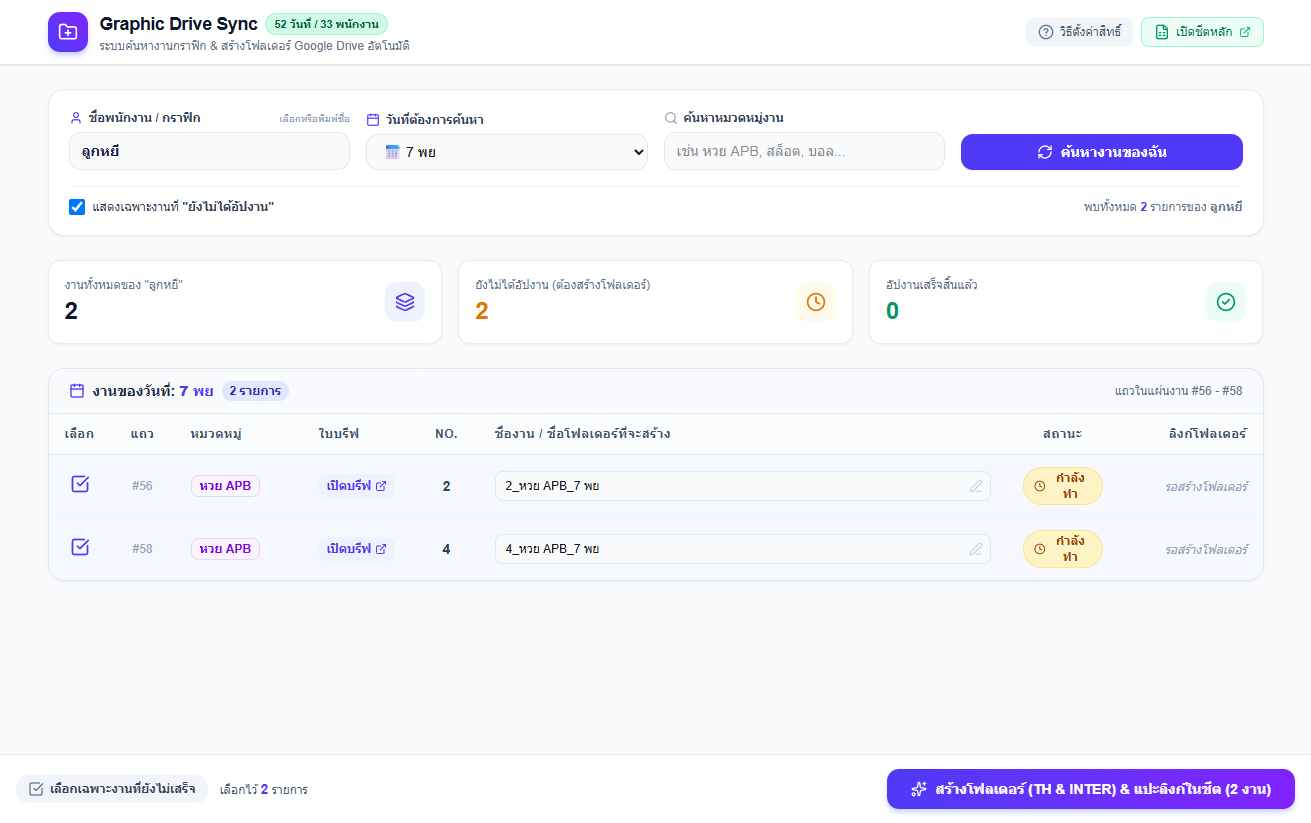
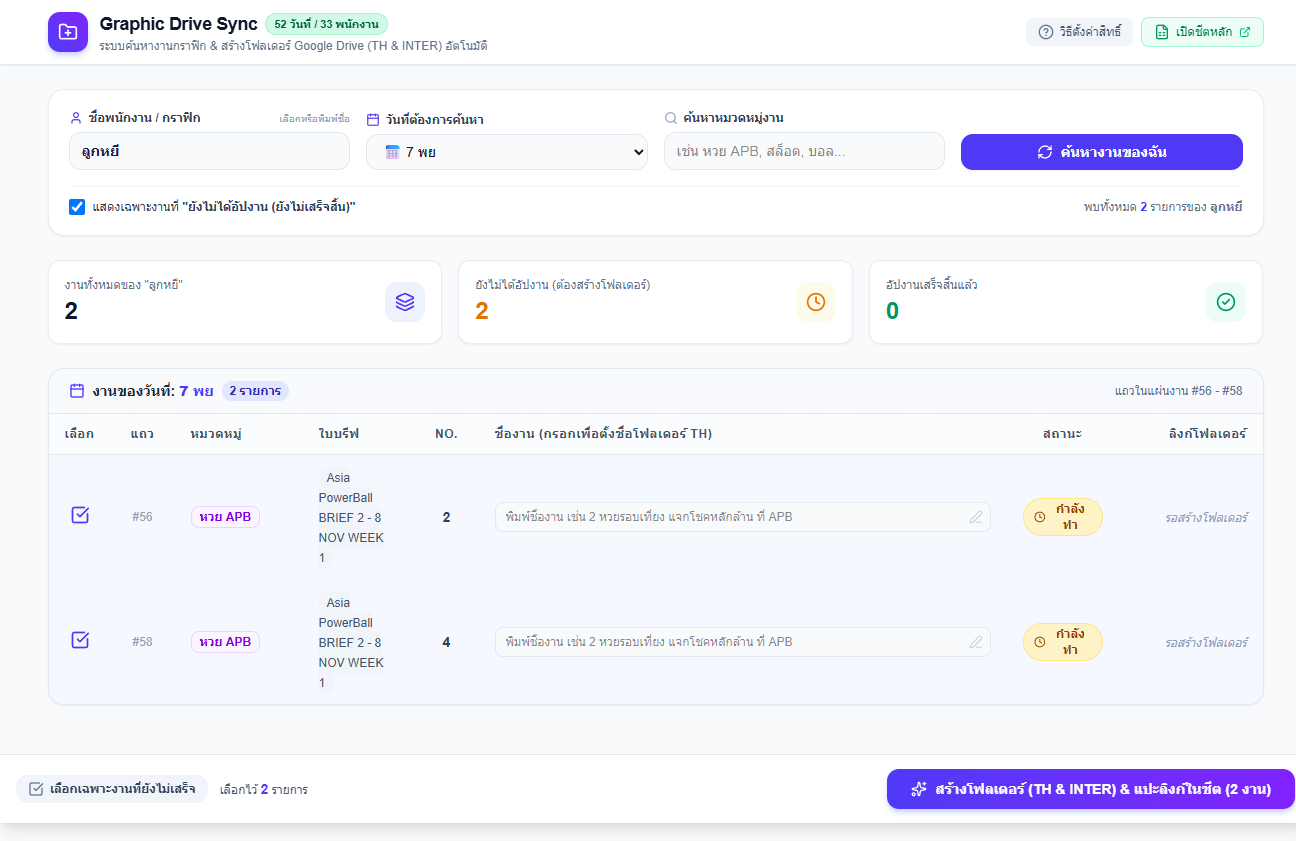
feat: complete exact folder naming for TH/INTER, empty input for new tasks, dual drive links with copy button

diff --git a/src/app/page.tsx b/src/app/page.tsx
@@ -21,6 +21,8 @@ import {
   User,
   FolderSymlink,
   Edit3,
+  Globe,
+  Copy,
 } from "lucide-react";
 
 interface Task {
@@ -77,6 +79,7 @@ export default function HomePage() {
   const [errorMessage, setErrorMessage] = useState<string | null>(null);
   const [searchTerm, setSearchTerm] = useState<string>("");
   const [showGuide, setShowGuide] = useState<boolean>(false);
+  const [copiedLink, setCopiedLink] = useState<string | null>(null);
   const [syncResult, setSyncResult] = useState<{
     success: boolean;
     message: string;
@@ -92,6 +95,12 @@ export default function HomePage() {
 
   const abortControllerRef = useRef<AbortController | null>(null);
   const getTaskKey = (sheet: string, row: number) => `${sheet}_${row}`;
+
+  const copyToClipboard = (url: string, label: string) => {
+    navigator.clipboard.writeText(url);
+    setCopiedLink(label);
+    setTimeout(() => setCopiedLink(null), 2000);
+  };
 
   // โหลดรายชื่อพนักงานและแท็บวันที่ทั้งหมด
   const loadMetadata = async () => {
@@ -113,7 +122,6 @@ export default function HomePage() {
 
   // โหลดรายการงานตามชื่อพนักงาน
   const fetchTasks = async (targetAssignee = assignee, targetSheet = sheetName, isPending = pendingOnly) => {
-    // ยกเลิก Request ก่อนหน้าที่ยังค้างอยู่
     if (abortControllerRef.current) {
       abortControllerRef.current.abort();
     }
@@ -127,7 +135,7 @@ export default function HomePage() {
     const timeoutId = setTimeout(() => {
       controller.abort();
       setIsLoading(false);
-      setErrorMessage("การเชื่อมต่อหมดเวลา กรุณาลองกด 'ค้นหางานของฉัน' อีกครั้ง");
+      setErrorMessage("การเชื่อมต่อใช้เวลานาน กรุณากด 'ค้นหางานของฉัน' อีกครั้ง");
     }, 60000);
 
     try {
@@ -141,7 +149,6 @@ export default function HomePage() {
 
       const data = await res.json();
       if (data.success) {
-        // กรองเฉพาะงานที่มีชื่อ assignee ตรงกันจริงๆ
         const searchLower = (targetAssignee || "").toLowerCase().trim();
         const rawTasks: Task[] = data.tasks || [];
         const loadedTasks = searchLower && searchLower !== "all"
@@ -150,11 +157,14 @@ export default function HomePage() {
 
         setTasks(loadedTasks);
 
+        // จัดการชื่องาน: ถ้าในชีตยังว่างอยู่ ให้เว้นว่างไว้ให้ผู้ใช้พิมพ์เอง
         const nameMap: Record<string, string> = {};
         const pendingKeys: string[] = [];
         loadedTasks.forEach((t) => {
           const key = getTaskKey(t.sheetName, t.row);
-          nameMap[key] = t.taskName;
+          // ถ้าชื่องานเป็นชื่อที่ระบบตั้งอัตโนมัติ ให้เคลียร์เป็นค่าว่าง เพื่อให้ผู้ใช้พิมพ์เอง
+          const isAutoPattern = t.taskName.endsWith(`_${t.sheetName}`) || !t.uploadUrl;
+          nameMap[key] = isAutoPattern && !t.uploadUrl ? "" : (t.taskName || "");
           if (!t.isCompleted) {
             pendingKeys.push(key);
           }
@@ -180,8 +190,7 @@ export default function HomePage() {
     const savedName = localStorage.getItem("gds_assignee");
     const initialName = savedName || "ลูกหยี";
     if (savedName) setAssignee(savedName);
-    
-    // เริ่มต้นค้นหาจากวันที่ "7 พย" ทันที เพื่อให้เร็วและเจองานแน่นอน
+
     fetchTasks(initialName, "7 พย", pendingOnly);
     loadMetadata();
   }, []);
@@ -210,24 +219,39 @@ export default function HomePage() {
     }
   };
 
+  // สร้างโฟลเดอร์ TH & INTER และอัปเดตชีต
   const handleSyncFolders = async () => {
     if (selectedTaskKeys.length === 0) {
       alert("กรุณาเลือกงานอย่างน้อย 1 รายการเพื่อสร้างโฟลเดอร์");
       return;
     }
 
-    const tasksToSync = tasks
-      .filter((t) => selectedTaskKeys.includes(getTaskKey(t.sheetName, t.row)))
-      .map((t) => {
-        const key = getTaskKey(t.sheetName, t.row);
-        return {
-          sheetName: t.sheetName,
-          row: t.row,
-          category: t.category,
-          no: t.no,
-          taskName: taskNamesMap[key] || t.taskName,
-        };
-      });
+    // ตรวจสอบว่ากรอกชื่องานครบทุกงานที่เลือกหรือยัง
+    const selectedTasks = tasks.filter((t) =>
+      selectedTaskKeys.includes(getTaskKey(t.sheetName, t.row))
+    );
+
+    for (const t of selectedTasks) {
+      const key = getTaskKey(t.sheetName, t.row);
+      const name = (taskNamesMap[key] || "").trim();
+      if (!name) {
+        alert(
+          `กรุณากรอก "ชื่องาน" สำหรับงานแถว #${t.row} (หมวด ${t.category} งานที่ ${t.no}) ก่อนกดสร้างโฟลเดอร์ครับ`
+        );
+        return;
+      }
+    }
+
+    const tasksToSync = selectedTasks.map((t) => {
+      const key = getTaskKey(t.sheetName, t.row);
+      return {
+        sheetName: t.sheetName,
+        row: t.row,
+        category: t.category,
+        no: t.no,
+        taskName: taskNamesMap[key].trim(),
+      };
+    });
 
     setIsSyncing(true);
     try {
@@ -276,7 +300,7 @@ export default function HomePage() {
   const completedTasks = totalTasks - pendingTasks;
 
   return (
-    <div className="min-h-screen bg-slate-50 flex flex-col font-sans pb-24">
+    <div className="min-h-screen bg-slate-50 flex flex-col font-sans pb-28">
       {/* Header Bar */}
       <header className="bg-white border-b border-slate-200 sticky top-0 z-30 shadow-xs">
         <div className="max-w-7xl mx-auto px-4 sm:px-6 lg:px-8 h-16 flex items-center justify-between">
@@ -294,7 +318,7 @@ export default function HomePage() {
                 </span>
               </div>
               <p className="text-xs text-slate-500">
-                ระบบค้นหางานกราฟิก & สร้างโฟลเดอร์ Google Drive อัตโนมัติ
+                ระบบค้นหางานกราฟิก & สร้างโฟลเดอร์ Google Drive (TH & INTER) อัตโนมัติ
               </p>
             </div>
           </div>
@@ -330,17 +354,6 @@ export default function HomePage() {
             <div className="flex-1">
               <h4 className="text-sm font-bold text-rose-900">แจ้งเตือนการเชื่อมต่อ</h4>
               <p className="text-xs text-rose-700 mt-0.5">{errorMessage}</p>
-              {errorMessage.includes("ต้องมีสิทธิ์เข้าถึง") && (
-                <div className="mt-2 text-xs text-rose-800 bg-white/70 p-2.5 rounded-xl border border-rose-200">
-                  <b>วิธีแก้ (ทำครั้งเดียว):</b>
-                  <ol className="list-decimal ml-4 mt-1 space-y-1">
-                    <li>เปิดหน้า Apps Script ใน Google Sheets</li>
-                    <li>กดปุ่ม <b>Deploy (นำไปใช้งาน)</b> &gt; <b>Manage deployments</b></li>
-                    <li>กดไอคอนดินสอแก้ไข เลือก <b>Who has access</b> ให้เป็น <b>Anyone (ทุกคน)</b></li>
-                    <li>กดบันทึก แล้วกดปุ่ม &quot;ค้นหางานของฉัน&quot; อีกครั้ง</li>
-                  </ol>
-                </div>
-              )}
             </div>
           </div>
         )}
@@ -393,7 +406,7 @@ export default function HomePage() {
                     📅 {s}
                   </option>
                 ))}
-                <option value="ALL">🔍 ทุกวันที่ (ค้นหาข้ามทุกแท็บ)</option>
+                <option value="ALL">🔍 ทุกวันที่ (ค้นหางานค้างข้ามแท็บ)</option>
               </select>
             </div>
 
@@ -434,7 +447,7 @@ export default function HomePage() {
                 }}
                 className="w-4 h-4 text-indigo-600 rounded-sm focus:ring-indigo-500"
               />
-              <span>แสดงเฉพาะงานที่ <b>&quot;ยังไม่ได้อัปงาน&quot;</b></span>
+              <span>แสดงเฉพาะงานที่ <b>&quot;ยังไม่ได้อัปงาน (ยังไม่เสร็จสิ้น)&quot;</b></span>
             </label>
 
             <span className="text-xs text-slate-500">
@@ -476,7 +489,7 @@ export default function HomePage() {
           </div>
         </section>
 
-        {/* Sync Result Banner */}
+        {/* Sync Result Banner (With Dual Links: TH & INTER) */}
         {syncResult && (
           <div className="bg-emerald-50 border border-emerald-200 rounded-2xl p-5 shadow-xs">
             <div className="flex items-start gap-3">
@@ -488,35 +501,87 @@ export default function HomePage() {
                   {syncResult.message}
                 </h3>
                 <p className="text-xs text-emerald-700 mt-0.5">
-                  ระบบได้สร้างโฟลเดอร์ทั้งฝั่ง TH และ INTER ใน Google Drive พร้อมแปะลิงก์ใน Col F และเปลี่ยนสถานะเป็น &quot;เสร็จสิ้น&quot; แล้ว
+                  ระบบได้สร้างโฟลเดอร์ให้ครบทั้งฝั่ง TH และ INTER พร้อมแปะลิงก์ของ TH ลงในช่อง Col F และเปลี่ยนสถานะเป็น &quot;เสร็จสิ้น&quot; แล้วครับ สามารถกดเปิดโฟลเดอร์เพื่ออัปโหลดไฟล์งานได้ทันที:
                 </p>
+
                 {syncResult.updatedTasks && syncResult.updatedTasks.length > 0 && (
-                  <div className="mt-4 grid grid-cols-1 sm:grid-cols-2 gap-3">
+                  <div className="mt-4 grid grid-cols-1 md:grid-cols-2 gap-3">
                     {syncResult.updatedTasks.map((item, idx) => (
                       <div
                         key={idx}
-                        className="bg-white p-3 rounded-xl border border-emerald-200 flex flex-col gap-2 text-xs shadow-2xs"
+                        className="bg-white p-3.5 rounded-xl border border-emerald-200 flex flex-col gap-2.5 shadow-2xs"
                       >
-                        <div className="flex items-center justify-between font-semibold text-slate-800">
-                          <span className="truncate mr-2 font-mono">
-                            📅 {item.sheetName} | {item.taskName}
+                        <div className="flex items-center justify-between font-semibold text-slate-800 text-xs">
+                          <span className="truncate mr-2 font-mono text-indigo-900 font-bold">
+                            📅 {item.sheetName} | แถว #{item.row} | {item.taskName}
                           </span>
-                          <span className="text-[10px] bg-emerald-100 text-emerald-800 px-2 py-0.5 rounded-full shrink-0">
+                          <span className="text-[10px] bg-emerald-100 text-emerald-800 font-bold px-2 py-0.5 rounded-full shrink-0">
                             เสร็จสิ้น
                           </span>
                         </div>
-                        <div className="flex items-center gap-2 pt-1 border-t border-slate-100">
-                          <a
-                            href={item.thFolderUrl}
-                            target="_blank"
-                            rel="noopener noreferrer"
-                            className="inline-flex items-center gap-1 text-indigo-600 font-bold hover:underline"
-                          >
-                            <FolderSymlink className="w-3.5 h-3.5" />
-                            <span>เปิดโฟลเดอร์ TH เพื่ออัปงาน</span>
-                            <ExternalLink className="w-3 h-3" />
-                          </a>
+
+                        <div className="grid grid-cols-1 sm:grid-cols-2 gap-2 pt-2 border-t border-slate-100">
+                          {/* TH Link Button */}
+                          <div className="flex items-center gap-1.5 bg-emerald-50/60 p-2 rounded-lg border border-emerald-100">
+                            <span className="text-base shrink-0">🇹🇭</span>
+                            <div className="flex-1 min-w-0">
+                              <p className="text-[10px] font-bold text-emerald-900">โฟลเดอร์ TH</p>
+                              <a
+                                href={item.thFolderUrl}
+                                target="_blank"
+                                rel="noopener noreferrer"
+                                className="text-xs text-indigo-600 font-bold hover:underline inline-flex items-center gap-1 truncate"
+                              >
+                                <span>เปิด Drive</span>
+                                <ExternalLink className="w-3 h-3" />
+                              </a>
+                            </div>
+                            <button
+                              onClick={() => copyToClipboard(item.thFolderUrl, `th_${idx}`)}
+                              className="p-1 text-slate-400 hover:text-slate-600"
+                              title="คัดลอกลิงก์ TH"
+                            >
+                              <Copy className="w-3.5 h-3.5" />
+                            </button>
+                          </div>
+
+                          {/* INTER Link Button */}
+                          <div className="flex items-center gap-1.5 bg-sky-50/60 p-2 rounded-lg border border-sky-100">
+                            <span className="text-base shrink-0">🌐</span>
+                            <div className="flex-1 min-w-0">
+                              <p className="text-[10px] font-bold text-sky-900">โฟลเดอร์ INTER</p>
+                              {item.interFolderUrl ? (
+                                <a
+                                  href={item.interFolderUrl}
+                                  target="_blank"
+                                  rel="noopener noreferrer"
+                                  className="text-xs text-sky-700 font-bold hover:underline inline-flex items-center gap-1 truncate"
+                                >
+                                  <span>เปิด Drive</span>
+                                  <ExternalLink className="w-3 h-3" />
+                                </a>
+                              ) : (
+                                <span className="text-[11px] text-slate-400 italic">-</span>
+                              )}
+                            </div>
+                            {item.interFolderUrl && (
+                              <button
+                                onClick={() => copyToClipboard(item.interFolderUrl, `inter_${idx}`)}
+                                className="p-1 text-slate-400 hover:text-slate-600"
+                                title="คัดลอกลิงก์ INTER"
+                              >
+                                <Copy className="w-3.5 h-3.5" />
+                              </button>
+                            )}
+                          </div>
                         </div>
+
+                        {copiedLink && copiedLink.startsWith(`th_${idx}`) && (
+                          <span className="text-[10px] text-emerald-600 font-medium">✓ คัดลอกลิงก์ TH เรียบร้อย</span>
+                        )}
+                        {copiedLink && copiedLink.startsWith(`inter_${idx}`) && (
+                          <span className="text-[10px] text-sky-600 font-medium">✓ คัดลอกลิงก์ INTER เรียบร้อย</span>
+                        )}
                       </div>
                     ))}
                   </div>
@@ -573,7 +638,7 @@ export default function HomePage() {
                         <th className="py-3 px-4 w-32">หมวดหมู่</th>
                         <th className="py-3 px-4 w-28">ใบบรีฟ</th>
                         <th className="py-3 px-3 w-16 text-center">No.</th>
-                        <th className="py-3 px-4">ชื่องาน / ชื่อโฟลเดอร์ที่จะสร้าง</th>
+                        <th className="py-3 px-4">ชื่องาน (กรอกเพื่อตั้งชื่อโฟลเดอร์ TH)</th>
                         <th className="py-3 px-4 text-center w-28">สถานะ</th>
                         <th className="py-3 px-4 text-right w-36">ลิงก์โฟลเดอร์</th>
                       </tr>
@@ -653,7 +718,7 @@ export default function HomePage() {
                                       [key]: e.target.value,
                                     }));
                                   }}
-                                  placeholder="พิมพ์ชื่องาน เช่น 2_หวยรอบเที่ยง แจกโชคหลักล้าน ที่ APB"
+                                  placeholder="พิมพ์ชื่องาน เช่น 2 หวยรอบเที่ยง แจกโชคหลักล้าน ที่ APB"
                                   className="w-full px-2.5 py-1.5 text-xs font-medium bg-slate-50 border border-slate-200 rounded-lg focus:bg-white focus:outline-hidden focus:ring-2 focus:ring-indigo-500/20 focus:border-indigo-500 transition-all pr-7"
                                 />
                                 <Edit3 className="w-3.5 h-3.5 text-slate-300 absolute right-2 top-2 pointer-events-none" />
